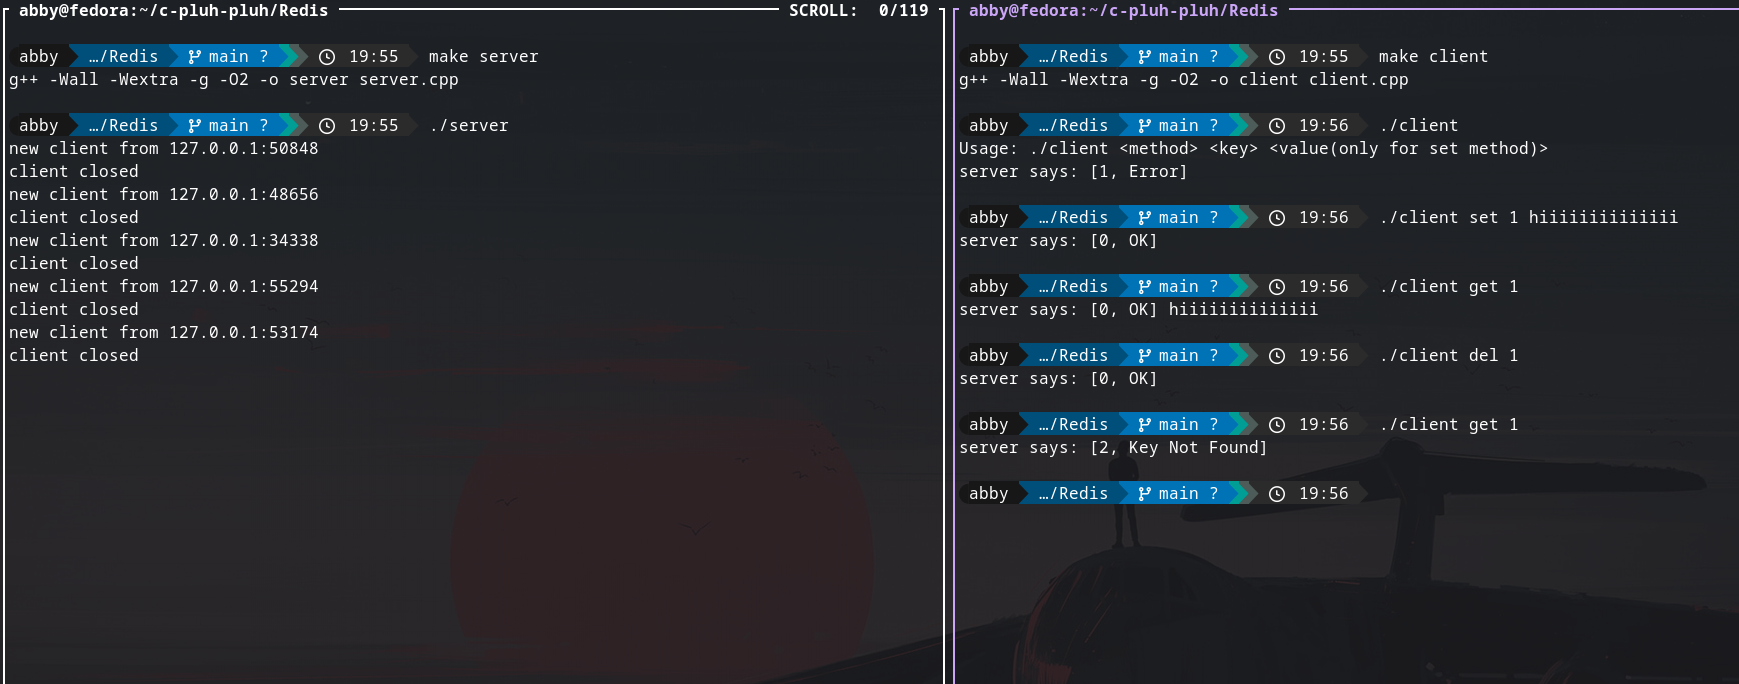
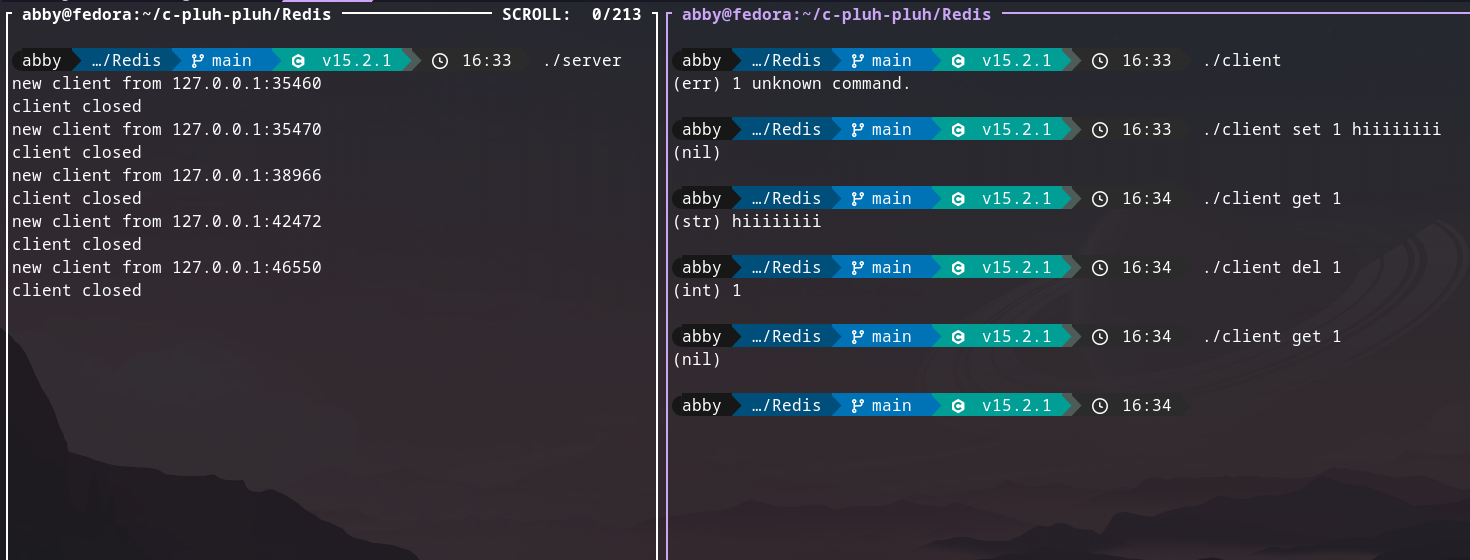
Update Readme and example

diff --git a/Readme.md b/Readme.md
@@ -37,8 +37,6 @@ POSIX/UNIX APIs, efforts of reading and finding references from the man pages an
 
 ![example image](example.png)
 
-In my implementation, server shows status code and what is says in the square brackets '[]'
-
 ---
 
 # What to excpect next
@@ -46,7 +44,7 @@ Even if it's a working project, still a lot of core features and important struc
 - [X] Hastables: I've used chaining hashtable (they use nested data structures like array of arrays, array of trees, etc.). Other type of hashtable which I didn't use are
                  Open addressing implemented by a single array and use Probing techniques for resolving conflicts.
                  I used [FNV](https://en.wikipedia.org/wiki/Fowler%E2%80%93Noll%E2%80%93Vo_hash_function) hash for hashing.
-- [ ] Data Serialization
+- [X] Data Serialization
 - [ ] Balanced Binary Tree
 - [ ] Sorted Set
 - [ ] Timer and Timeout